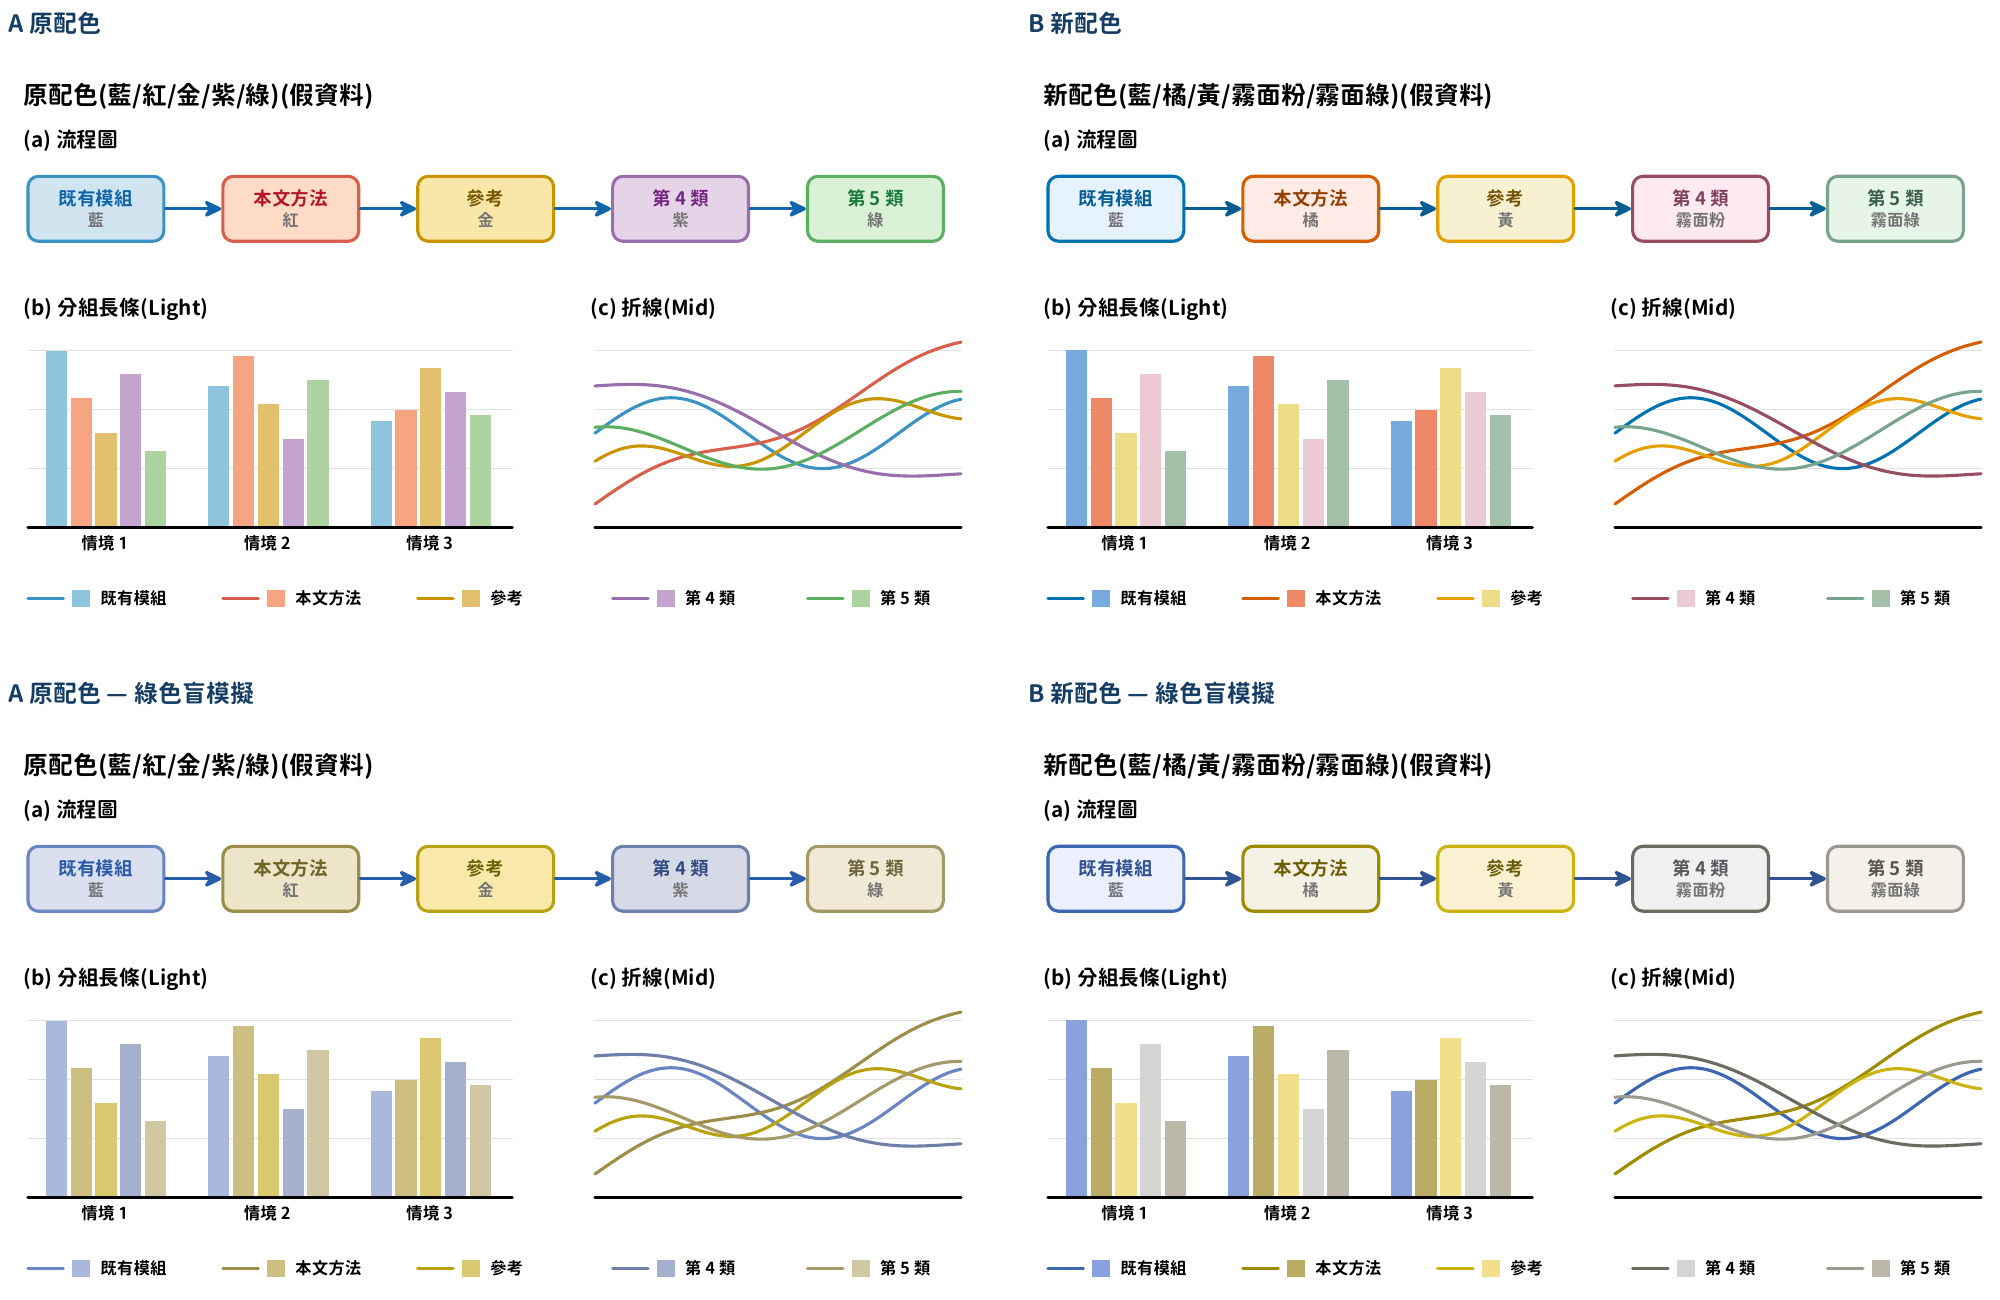
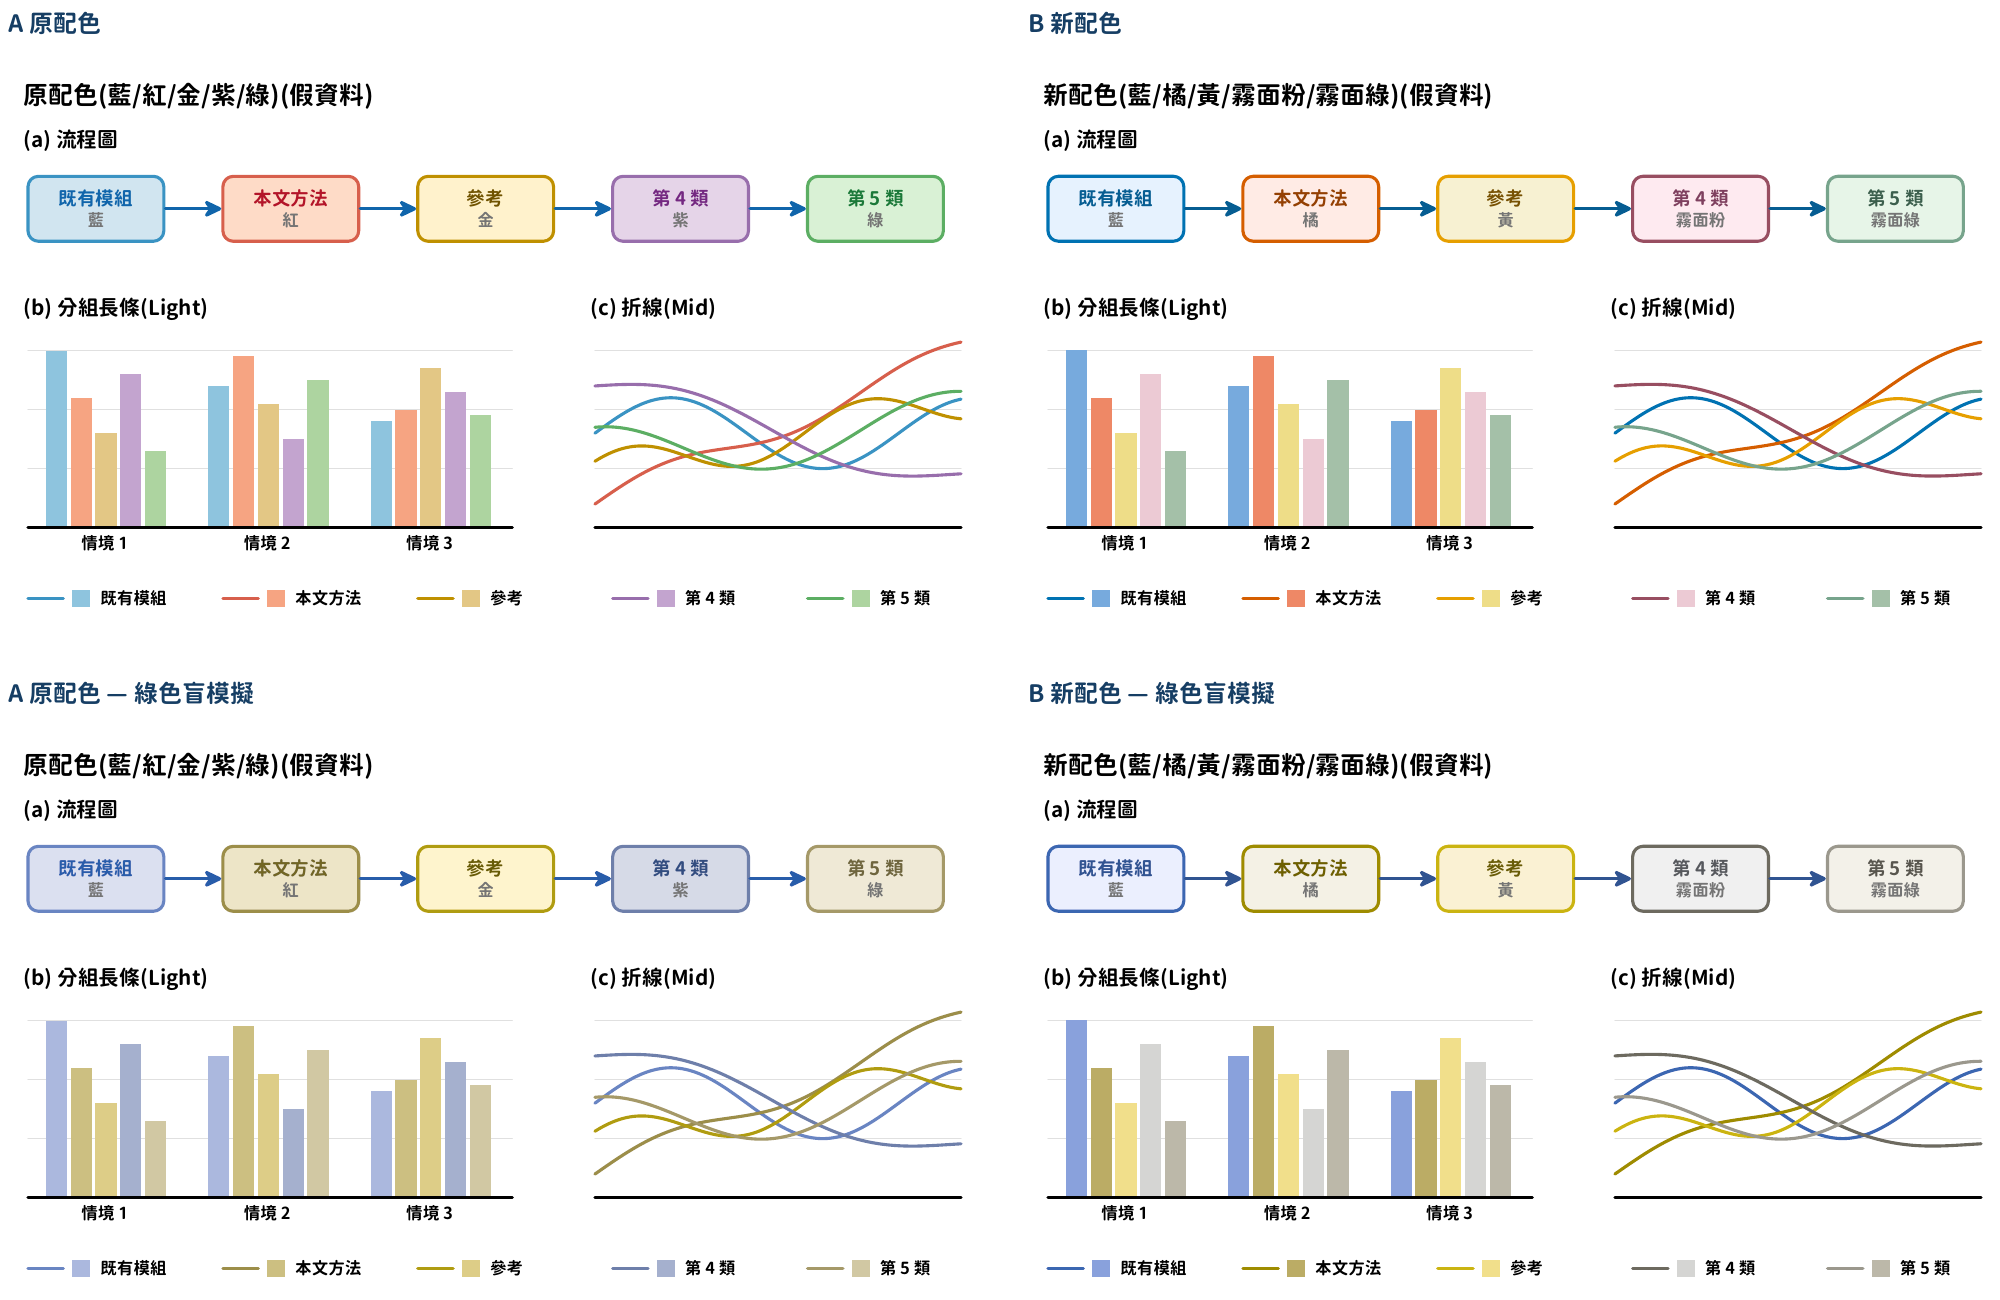
Palette A gold: use the user's own Pale/Mid (FFF2CC / BF9000)
The original palette's c3 (gold) was recorded as F9E6A9 / C89400, which does not
match the user's own files (FFF2CC / BF9000). Light and Dark are re-derived in
OKLab: Light at 0.44 of Pale->Mid (where the other slots' Light sit) = E3C785,
Dark = Mid + the previous Mid->Dark offset = 705300.

Gold-green separation under full dichromacy is now 7.2 (was 6.3); skill text and
palette comment updated. Demo palette comparison regenerated.

Changed region(s): [[0.186, 0.6462, 0.279, 0.7077], [0.186, 0.1231, 0.279, 0.1846]]

diff --git a/tex/palette_original.tex b/tex/palette_original.tex
@@ -1,13 +1,15 @@
 % Palette "original" = the user's thesis/slide palette (≈ ColorBrewer RdBu + PRGn, plus gold).
 % Slots: c1 baseline/general · c2 contribution/Ours · c3 third/reference · c4 · c5 ; n = neutral gray.
-% Gold Light/Dark were not in the thesis files -> derived 2026-11-18 (same hue as goldMid).
+% Gold Pale/Mid = the user's own values FFF2CC / BF9000 (corrected 2026-11-19; was F9E6A9 / C89400).
+% Gold Light/Dark are not in the user's files -> derived in OKLab: Light at 0.44 of Pale->Mid
+% (where c1/c2/c4/c5 Light sit), Dark = Mid + the old Mid->Dark offset.
 \def\paletteName{原配色(藍/紅/金/紫/綠)}
 \def\cOneName{藍}\def\cTwoName{紅}\def\cThreeName{金}\def\cFourName{紫}\def\cFiveName{綠}
 \definecolor{c1pale}{HTML}{D1E5F0} \definecolor{c1light}{HTML}{8EC4DE} \definecolor{c1mid}{HTML}{3A93C3} \definecolor{c1dark}{HTML}{1065AB}
 \definecolor{c2pale}{HTML}{FEDBC7} \definecolor{c2light}{HTML}{F6A482} \definecolor{c2mid}{HTML}{D75F4C} \definecolor{c2dark}{HTML}{B31529}
-\definecolor{c3pale}{HTML}{F9E6A9} \definecolor{c3light}{HTML}{E2C06D} \definecolor{c3mid}{HTML}{C89400} \definecolor{c3dark}{HTML}{785700}
+\definecolor{c3pale}{HTML}{FFF2CC} \definecolor{c3light}{HTML}{E3C785} \definecolor{c3mid}{HTML}{BF9000} \definecolor{c3dark}{HTML}{705300}
 \definecolor{c4pale}{HTML}{E5D4E8} \definecolor{c4light}{HTML}{C3A4CF} \definecolor{c4mid}{HTML}{986EAC} \definecolor{c4dark}{HTML}{742881}
 \definecolor{c5pale}{HTML}{D9F1D5} \definecolor{c5light}{HTML}{ADD4A0} \definecolor{c5mid}{HTML}{5CAE63} \definecolor{c5dark}{HTML}{1B7939}
 \definecolor{npale}{HTML}{E8E8E8}  \definecolor{nlight}{HTML}{9E9E9E}  \definecolor{nmid}{HTML}{424242}  \definecolor{ndark}{HTML}{1B1B1B}
 % Known weak pairs under full dichromacy (labels/markers needed if colour is the only cue):
-% c1-c4 (blue-purple, 3.6), c2-c5 (red-green), c3-c5 (gold-green, 6.3).
+% c1-c4 (blue-purple, 3.6), c2-c5 (red-green), c3-c5 (gold-green, 7.2).

diff --git a/python/figkit/__init__.py b/python/figkit/__init__.py
@@ -20,7 +20,7 @@ PALETTES = {
         "name": "原配色(藍/紅/金/紫/綠)",
         "c1": _fam("D1E5F0", "8EC4DE", "3A93C3", "1065AB"),
         "c2": _fam("FEDBC7", "F6A482", "D75F4C", "B31529"),
-        "c3": _fam("F9E6A9", "E2C06D", "C89400", "785700"),
+        "c3": _fam("FFF2CC", "E3C785", "BF9000", "705300"),
         "c4": _fam("E5D4E8", "C3A4CF", "986EAC", "742881"),
         "c5": _fam("D9F1D5", "ADD4A0", "5CAE63", "1B7939"),
         "n": _NEUTRAL,

diff --git a/skill/figure-style/SKILL.md b/skill/figure-style/SKILL.md
@@ -23,12 +23,12 @@ description: The user's personal figure/slide visual standard (all their machine
 |---|---|---|
 | c1 | 藍 `D1E5F0 8EC4DE 3A93C3 1065AB` | 藍 `E6F2FE 77AADD 0072B2 065D92` |
 | c2 | 紅 `FEDBC7 F6A482 D75F4C B31529` | 橘 `FFEBE5 EE8866 D55E00 944003` |
-| c3 | 金 `F9E6A9 E2C06D C89400 785700` | 黃 `F7F1D2 EEDD88 E69F00 775103` |
+| c3 | 金 `FFF2CC E3C785 BF9000 705300` | 黃 `F7F1D2 EEDD88 E69F00 775103` |
 | c4 | 紫 `E5D4E8 C3A4CF 986EAC 742881` | 霧面粉 `FEEAF0 ECCAD4 984E61 7F405F` |
 | c5 | 綠 `D9F1D5 ADD4A0 5CAE63 1B7939` | 霧面綠 `E7F5E8 A4C0A8 77A48C 3C5F4D` |
 | n | 灰 `E8E8E8 9E9E9E 424242 1B1B1B` | 同左 |
 
-真相來源 = `~/figkit/tex/palette_{original,new}.tex` 與 `~/figkit/python/figkit/__init__.py`(改色兩邊一起改)。A 的金 Light/Dark 是推算值(論文檔只有 Pale/Mid)。
+真相來源 = `~/figkit/tex/palette_{original,new}.tex` 與 `~/figkit/python/figkit/__init__.py`(改色兩邊一起改)。A 的金 Pale/Mid = user 原本的 `FFF2CC`/`BF9000`(2026-11-19 更正,舊值 F9E6A9/C89400 與 user 原檔不符);Light/Dark 是 OKLab 推算值(user 檔案只有 Pale/Mid)。
 
 ## 3. 共通樣式(已寫進 `~/figkit/tex/figstyle.tex`)
 - 字體 **GenSenRounded B**(檔案在 `~/figkit/fonts/`,install.sh 連進 TEXMFHOME 與系統字型;TikZ 需 LuaLaTeX)。
@@ -38,7 +38,7 @@ description: The user's personal figure/slide visual standard (all their machine
 
 ## 4. 色盲:講準,不要誇大
 - 量法:dataviz `validate_palette.js` 的模型(Machado 2009 severity 1.0,OKLab ΔE×100;色盲 ≥8 及格、正常 ≥15)。
-- A 原配色在最嚴重二色視下 藍↔紫 3.6、金↔綠 6.3、紅↔綠 偏低;**只在「顏色是唯一線索」的線/點圖才有問題**(加標籤/線型即可)。user 的有字架構圖已模擬驗證沒問題、色弱朋友也認得出 — **不要說 A「不色盲友善」**。
+- A 原配色在最嚴重二色視下 藍↔紫 3.6、金↔綠 7.2、紅↔綠 偏低;**只在「顏色是唯一線索」的線/點圖才有問題**(加標籤/線型即可)。user 的有字架構圖已模擬驗證沒問題、色弱朋友也認得出 — **不要說 A「不色盲友善」**。
 - B:三色 Light 16.0 / Mid 13.1;用到 5 色時 Light 約 7–12、Pale 幾乎全撞 → 流程圖靠 Mid 框、長條/折線要圖例或直接標籤;Dark 只當字色(c2/c3 Dark 很像)。
 
 ## 5. 驗證習慣
